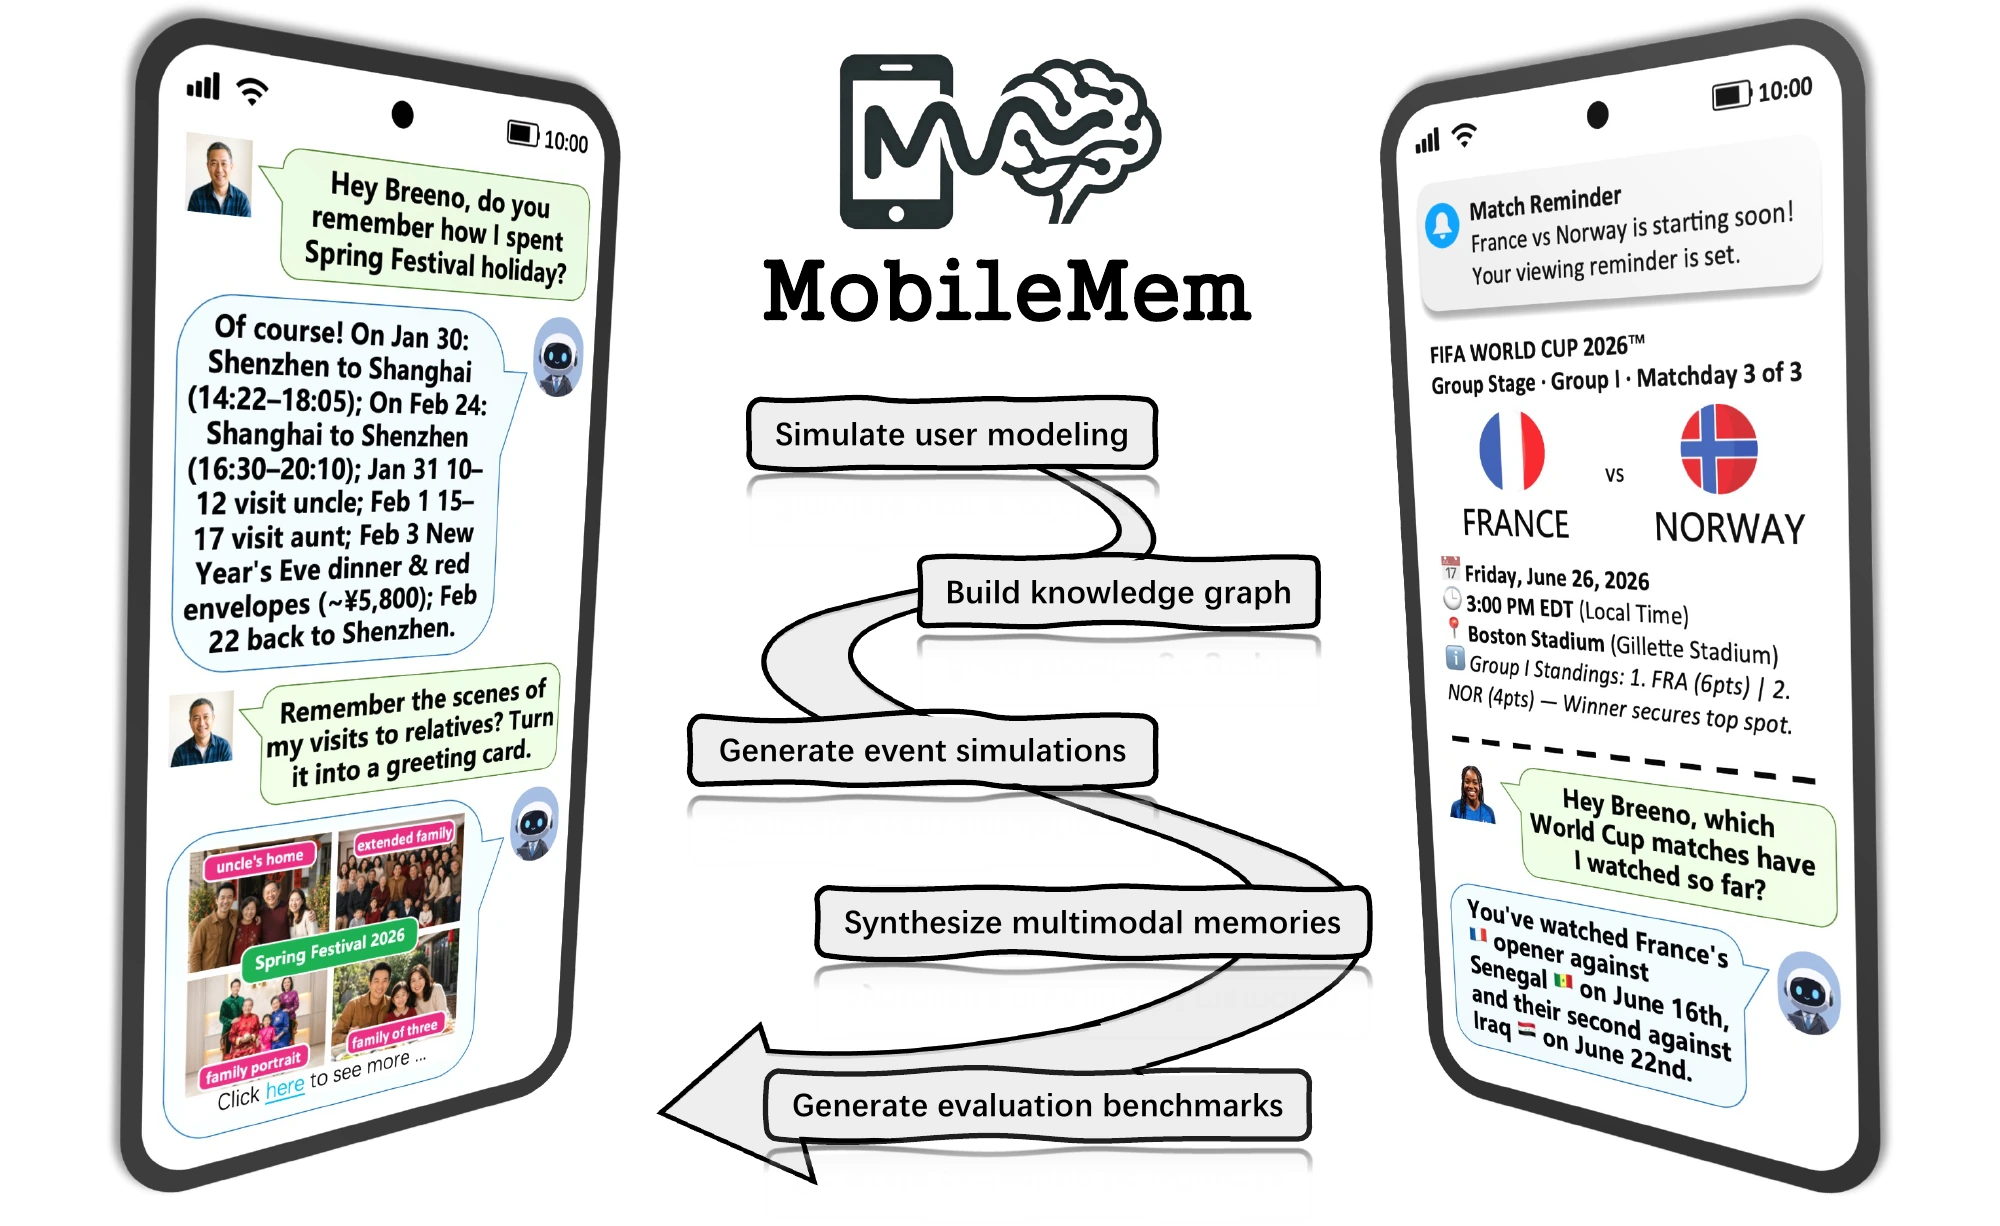
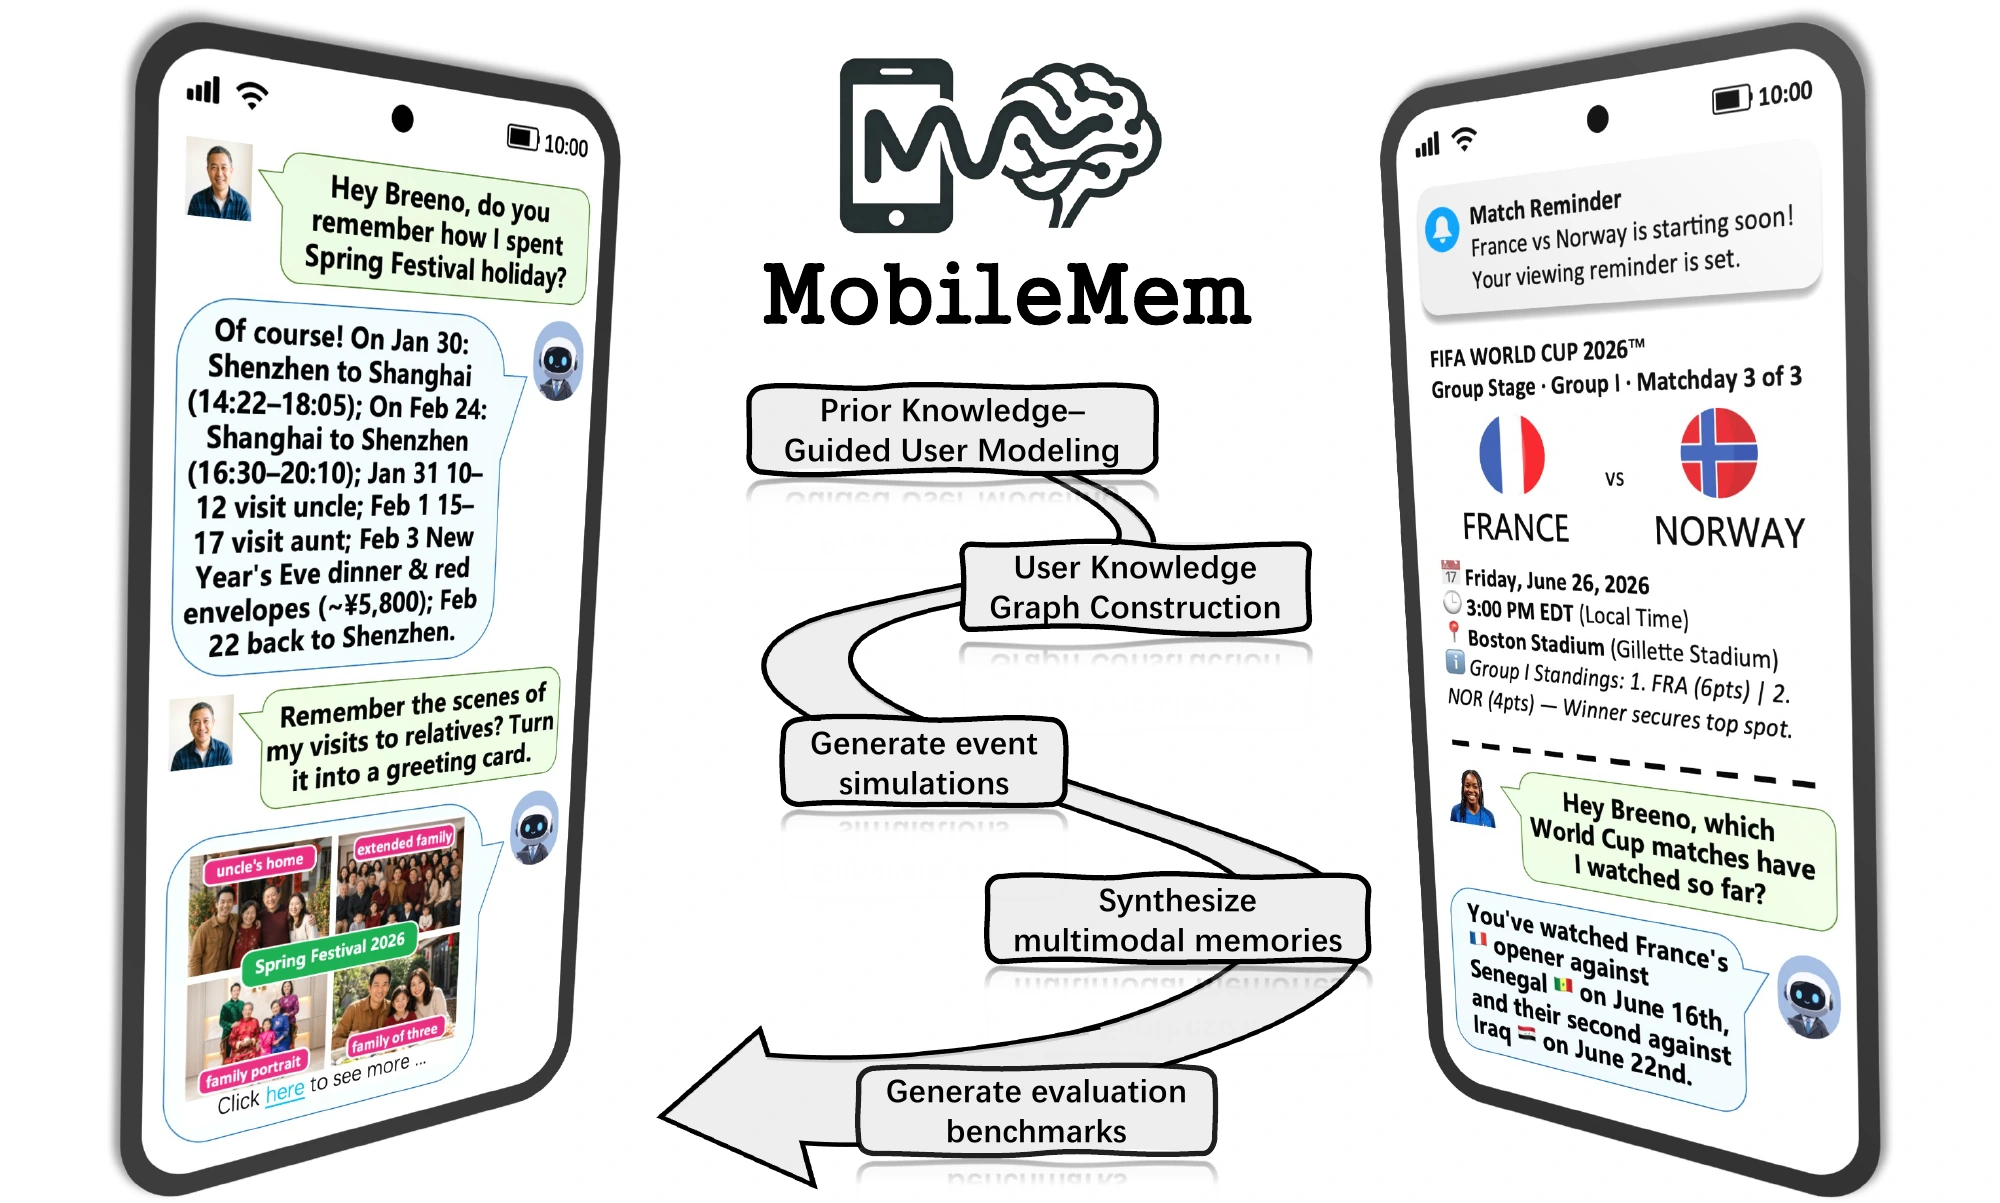
update MobileMem overview figure

diff --git a/index.html b/index.html
@@ -408,11 +408,11 @@
                 </div>
               </details>
               <details
-                data-feature-visual="assets/web/paper/figure-mobilemem-overview.webp"
+                data-feature-visual="assets/web/paper/figure-mobilemem-overview.webp?v=20260811-2"
                 data-feature-width="2000"
-                data-feature-height="1226"
-                data-feature-alt-en="MobileMem overview showing personal conversations and proactive mobile assistance connected by a memory benchmark workflow."
-                data-feature-alt-zh="MobileMem 总览：个人对话与主动式移动助理通过记忆基准流程相连接。"
+                data-feature-height="1203"
+                data-feature-alt-en="MobileMem overview linking personal conversations and proactive assistance through prior-knowledge-guided user modeling, knowledge graph construction, event simulation, multimodal memory synthesis, and benchmark generation."
+                data-feature-alt-zh="MobileMem 总览：通过先验知识引导的用户建模、用户知识图谱构建、事件模拟、多模态记忆合成与评测基准生成，连接个人对话与主动式助理。"
               >
                 <summary>
                   <span class="step-number">02</span>
